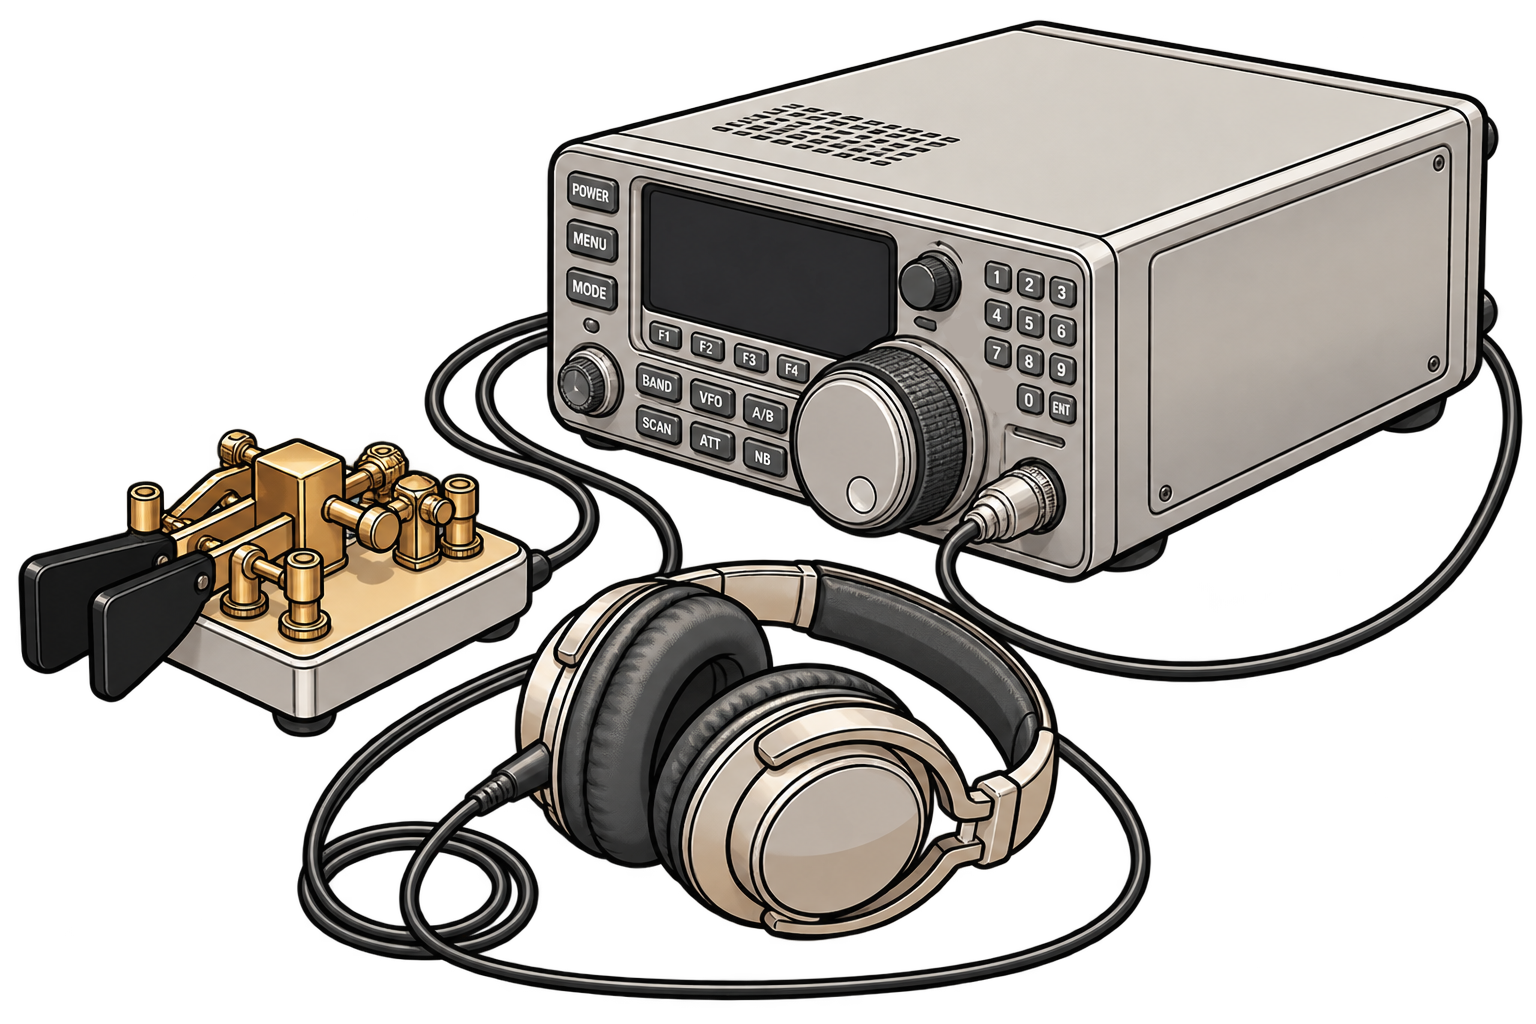
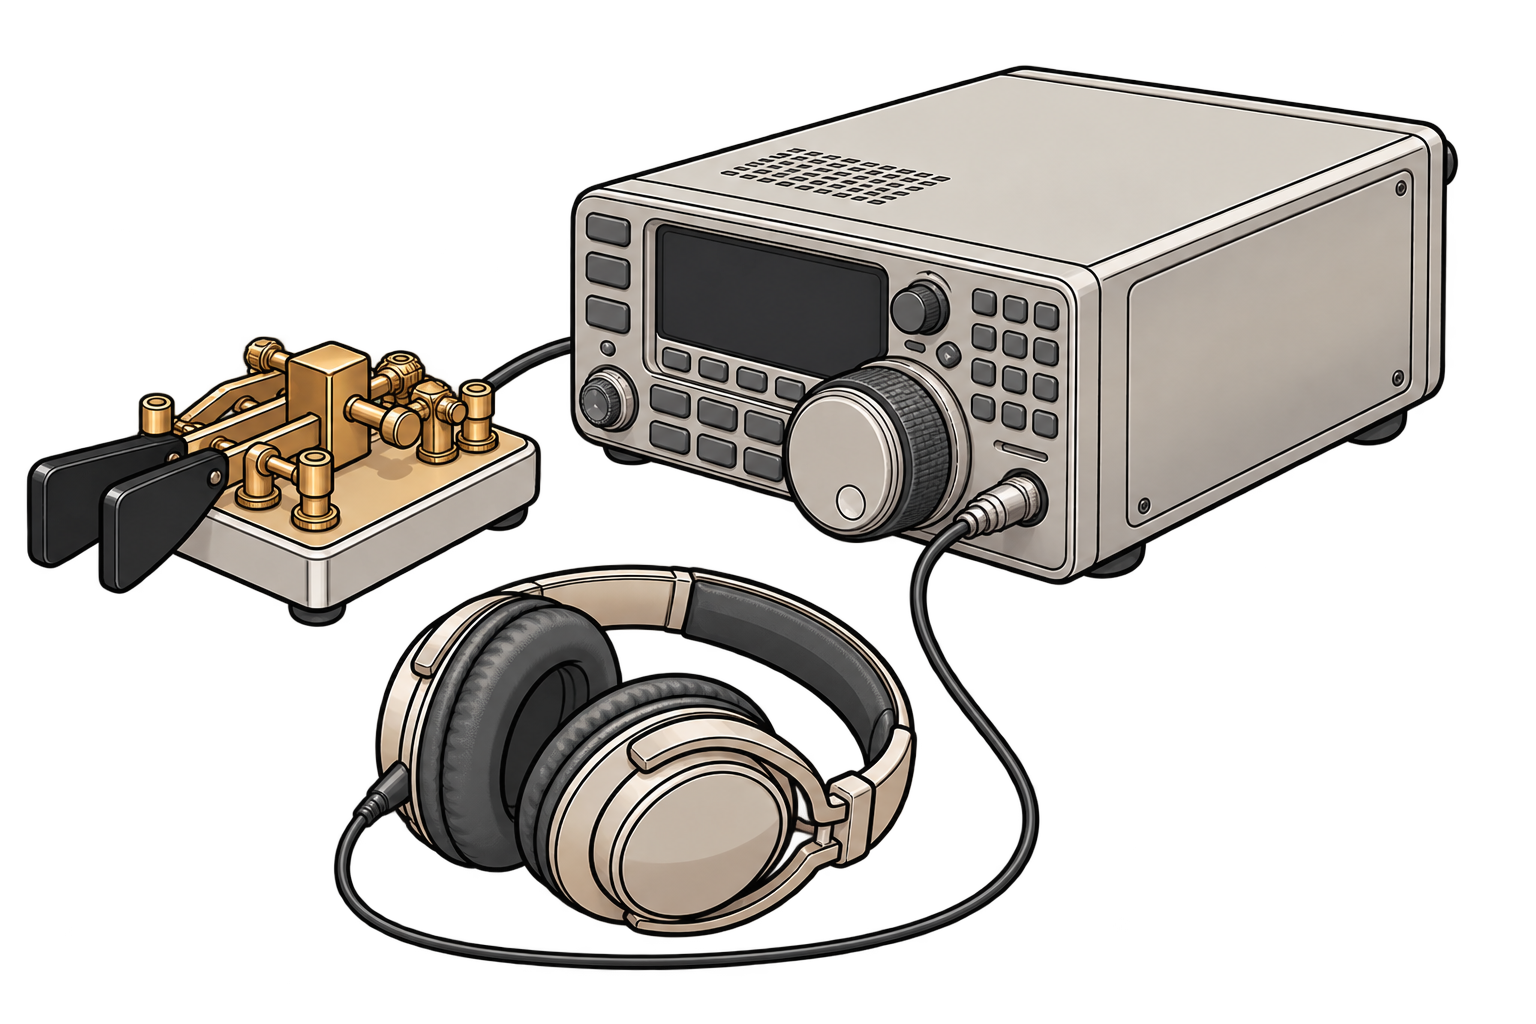
data directory

diff --git a/internal/application/about.go b/internal/application/about.go
@@ -17,7 +17,7 @@ type aboutDialog struct {
 	handle modal.Handle
 }
 
-func openAbout(host ui.Application, version string) {
+func openAbout(host ui.Application, version string, dataDirectory string) {
 	controls := host.Components().Modal()
 	dialog := &aboutDialog{}
 
@@ -41,6 +41,17 @@ func openAbout(host ui.Application, version string) {
 	websiteView.SetStyle(components.TextViewAccent)
 	websiteView.SetTextAlign(tview.AlignCenter)
 
+	dataDirectoryLabel := controls.TextView()
+	dataDirectoryLabel.SetText("Data directory")
+	dataDirectoryLabel.SetStyle(components.TextViewMuted)
+	dataDirectoryLabel.SetTextAlign(tview.AlignCenter)
+
+	dataDirectoryView := controls.TextView()
+	dataDirectoryView.SetText(dataDirectory)
+	dataDirectoryView.SetTextAlign(tview.AlignCenter)
+	dataDirectoryView.SetWrap(true)
+	dataDirectoryView.SetWordWrap(false)
+
 	dialog.ok = controls.Button("OK")
 	dialog.ok.SetSelectedFunc(dialog.close)
 	buttons := controls.Flex(tview.FlexColumn).
@@ -48,12 +59,15 @@ func openAbout(host ui.Application, version string) {
 		AddItem(dialog.ok, 12, 0, false).
 		AddItem(nil, 0, 1, false)
 
-	dialog.Layout = modal.NewLayout(controls, " About ", 48).
+	dialog.Layout = modal.NewLayout(controls, " About ", 72).
 		Row(name, 1).
 		Row(versionView, 1).
 		Spacer().
 		Row(developer, 1).
 		Row(websiteView, 1).
+		Spacer().
+		Row(dataDirectoryLabel, 1).
+		Row(dataDirectoryView, 2).
 		Spacer().
 		Actions(buttons)
 	dialog.handle = host.OpenModalForCurrentLayer(dialog)

diff --git a/internal/application/application.go b/internal/application/application.go
@@ -6,6 +6,7 @@ import (
 	"context"
 	"errors"
 	"fmt"
+	"path/filepath"
 
 	"ditdah/internal/database"
 	decoderpage "ditdah/internal/decoder/tui"
@@ -37,7 +38,11 @@ func Run(ctx context.Context, databasePath string, version string) (err error) {
 		err = errors.Join(err, deps.close())
 	}()
 
-	app, initialPage := newTerminalApplication(deps, version)
+	app, initialPage := newTerminalApplication(
+		deps,
+		version,
+		filepath.Dir(databasePath),
+	)
 	if err := app.Run(ctx, initialPage); err != nil {
 		return fmt.Errorf("run terminal UI: %w", err)
 	}
@@ -48,6 +53,7 @@ func Run(ctx context.Context, databasePath string, version string) (err error) {
 func newTerminalApplication(
 	deps dependencies,
 	version string,
+	dataDirectory string,
 ) (tui.Application, tui.Page) {
 	app := tui.NewApplication()
 	qsoEditors := qsoeditor.New(
@@ -99,7 +105,7 @@ func newTerminalApplication(
 	app.AddMenuItem(
 		"About",
 		keybinding.OnRune('a', "about", func() {
-			openAbout(app, version)
+			openAbout(app, version, dataDirectory)
 		}),
 	)
 	return app, newLogbookPage()

diff --git a/main.go b/main.go
@@ -7,9 +7,11 @@ import (
 	"os/signal"
 
 	"ditdah/internal/application"
+
+	"github.com/adrg/xdg"
 )
 
-const databasePath = "logbook.db"
+const databaseFile = "ditdah/logbook.db"
 
 var version = "development"
 
@@ -17,6 +19,12 @@ func main() {
 	if len(os.Args) == 2 && os.Args[1] == "--version" {
 		fmt.Println(version)
 		return
+	}
+
+	databasePath, err := xdg.DataFile(databaseFile)
+	if err != nil {
+		fmt.Fprintln(os.Stderr, err)
+		os.Exit(1)
 	}
 
 	ctx, stop := signal.NotifyContext(context.Background(), os.Interrupt)

diff --git a/internal/application/application_test.go b/internal/application/application_test.go
@@ -17,7 +17,7 @@ func TestTerminalApplicationCreatesInitialLogbookPage(t *testing.T) {
 			Settings: emptySettingsStore{},
 		},
 		qrz: unusedQRZService{},
-	}, "test-version")
+	}, "test-version", "/test/data")
 	if terminal == nil {
 		t.Fatal("newTerminalApplication() returned nil")
 	}

diff --git a/ROADMAP.md b/ROADMAP.md
@@ -79,7 +79,8 @@ This document records implementation decisions and future technical work.
 - [x] Build cgo-enabled Linux amd64, Windows amd64, macOS Intel, and SIMD-enabled macOS Apple Silicon release archives on native GitHub-hosted runners; fall back to the scalar implementation when the SIMD build is unavailable and publish version tags as GitHub releases.
 - [x] Embed the DitDah favicon as the Windows executable icon during release builds.
 - [x] Embed the release tag in every published binary and expose it through `ditdah --version`.
-- [x] Show the embedded version, developer callsign, and project website in an application About dialog.
+- [x] Show the embedded version, developer callsign, project website, and resolved data directory in an application About dialog.
+- [x] Store the SQLite logbook in the platform-native user data directory resolved by `adrg/xdg`.
 - [x] Implement QRZ synchronization on top of the validated credentials and stored synchronization state, retaining remote log IDs so edited records can be replaced without duplicates.
 - [x] Add the initial read-only logbook TUI with table, details, and search.
 - [x] Add QSO creation, editing, and confirmed deletion to the logbook TUI.

diff --git a/README.md b/README.md
@@ -36,9 +36,10 @@ Apple Silicon and Intel; the Apple Silicon build uses the Go SIMD experiment
 when the toolchain supports it and falls back to the scalar implementation
 otherwise.
 
-DitDah creates `logbook.db` in the directory from which it is started. Run
-it from a stable directory if you want the application to keep using the same
-logbook.
+DitDah stores its logbook in the platform's user application-data directory:
+`~/Library/Application Support/ditdah` on macOS, `%LOCALAPPDATA%\ditdah` on
+Windows, and `$XDG_DATA_HOME/ditdah` (normally `~/.local/share/ditdah`) on
+Linux.
 
 ### Build from source
 
